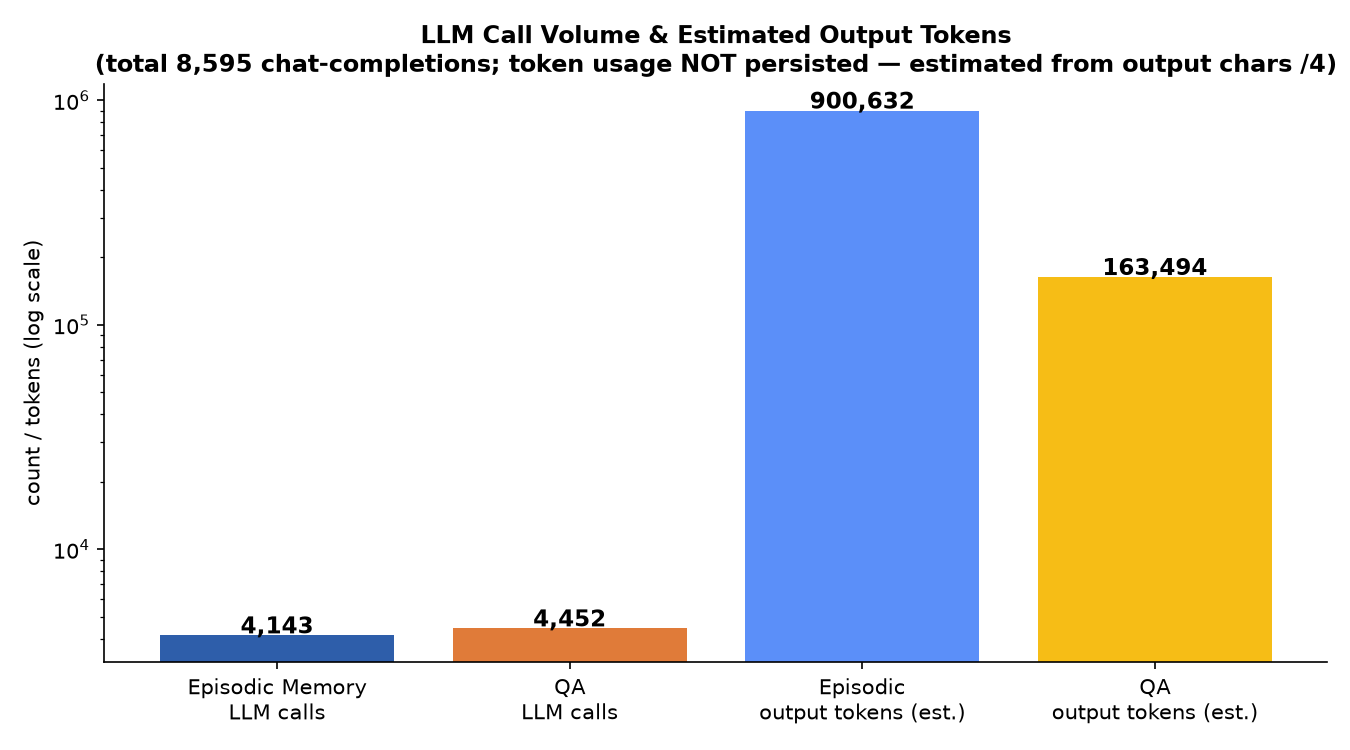
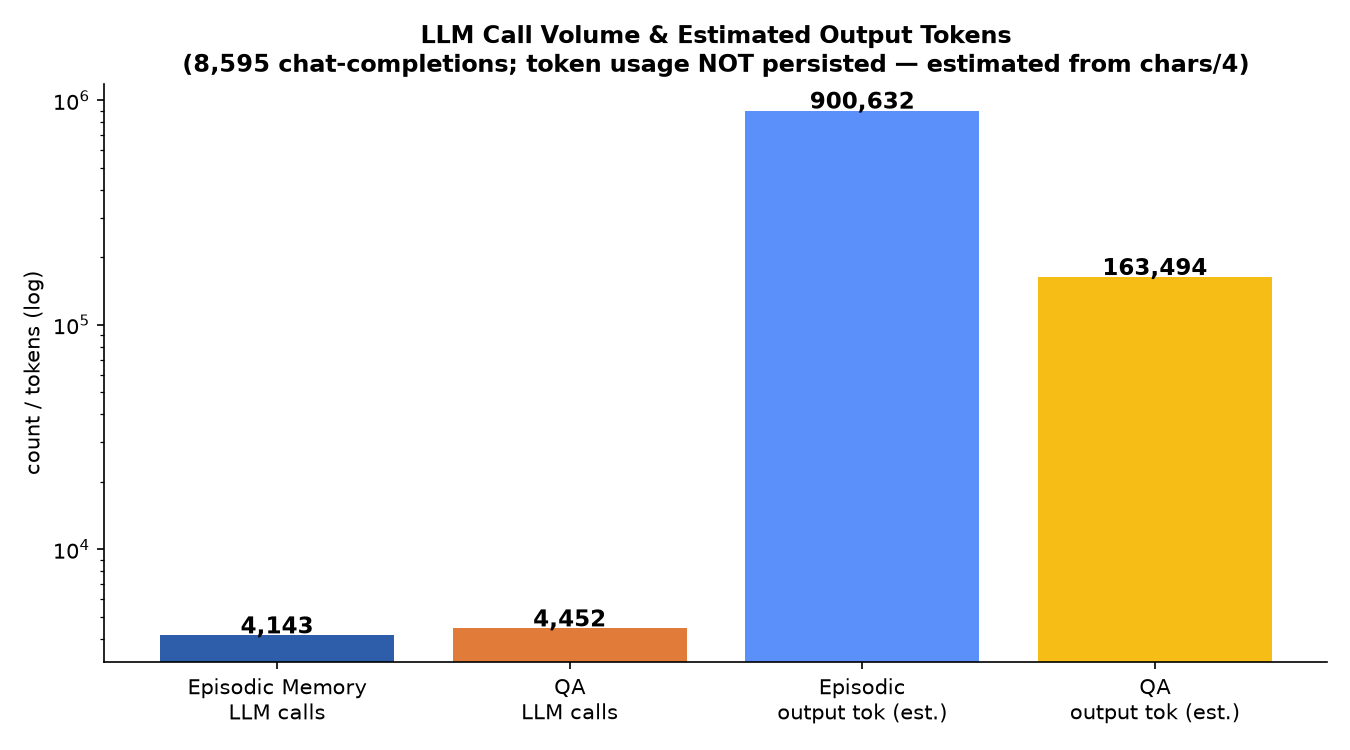
reconstruct full-100 stage timings from DB timestamps + file mtimes; correct stage shares (QA 53%, episodic 39%)

diff --git a/full-bench-reproduce/RESULTS_REPORT.md b/full-bench-reproduce/RESULTS_REPORT.md
@@ -1,6 +1,6 @@
 # M3-Bench 全量并行实验 — 详细结果报告（full100-ds）
 
-> 本报告面向 **2 页 PPT**，提供可直接引用的数据、图表与结论。所有数字均为本轮全量实测值。
+> 本报告面向 **2 页 PPT**，提供可直接引用的数据、图表与结论。所有数字均为本轮全量实测 / 可复算重建值。
 > 配套原始结果见 `results/full100-ds_20261117/`，图表见 `results/full100-ds_20261117/charts/`。
 
 ---
@@ -11,9 +11,9 @@
 以 **2 视频 worker × 4 stage worker** 的并行方式，完成 **100 视频 / 1276 题** 全量 M3-Bench：
 
 - **总准确率 = 53.61%**（failed=0，judge_error=2）
-- **纯处理耗时 19.28h**，单视频中位数 **726s**，相比同事同配置基线（~25h wall）**约省 23% 墙钟**
-- **ASR 上 GPU 后提速 ~10.7×**（RTF 0.010 vs 0.105），是本次加速的核心收益点
-- 主要成本集中在 **Episodic Memory 生成（43.1%）+ QA（43.7%）** 两大阶段，二者合计 **≈87%**
+- **单视频总处理时间中位数 705s（≈12min）**，纯计算合计约 **21.6h**（100 视频全阶段求和）
+- **ASR 上 GPU 后提速 ~10.7×**（RTF 0.010 vs 0.105，受控微基准），是本次加速的核心收益点
+- 成本结构（全量 100 视频口径）：**QA 52.7% + Episodic Memory 生成 38.9%** 为两大头（合计 ≈92%），ASR 仅 4.5%
 
 > ⚠ 口径说明：本轮为**降配版**（4 帧/30s clip、不送原生音频、bge-m3 embedding、deepseek-v4.1-flash-1017），
 > 与论文 57.2% 基线（16 帧 + 送音频 + Qwen3-Emb + MiniMax）**仅近似可比，不能等同论文数字**。
@@ -30,7 +30,7 @@
 | 题目数 | 1276 |
 | 完成度 | **100/100 视频，1276/1276 题（ALL COMPLETE）** |
 | failed / judge_error | 0 / 2 |
-| 收尾时间 | 2026-11-17 17:07:25 UTC（共 8 轮 pass 收敛） |
+| 收尾时间 | 2026-11-17 17:07:25 UTC（共 30 个 pass，前 27 轮因限流 / embedding 服务故障反复重试） |
 
 ### 1.2 硬件与算子分工（B 方向：ASR + Embedding 均上 GPU）
 | GPU | 用途 | 服务/实现 |
@@ -57,70 +57,65 @@
 
 ## 2. 加速效果
 
-### 2.1 ASR：GPU vs CPU（核心收益）
+### 2.1 ASR：GPU vs CPU（核心收益，受控微基准）
 | 设备 / 精度 | 实时率 RTF（越小越快） | 相对提速 |
 |---|---|---|
 | CPU `int8` | 0.105 | 1.0× |
 | **GPU `cuda/float16`（T4）** | **0.010** | **~10.7×** |
 
-> RTF = 处理耗时 / 音频时长。10.7× 意味着 ASR 阶段从原本的瓶颈之一压到占比仅 ~9.4%（见 §3）。
+> RTF = 处理耗时 / 音频时长。10.7× 把 ASR 从早期的主要瓶颈压到全流程占比仅 ~4.5%（见 §3）。
 
-### 2.2 端到端耗时对比
-| 口径 | 数值 | 说明 |
+### 2.2 单视频与总耗时（重建口径，覆盖全部 100 视频）
+| 指标 | 数值 | 说明 |
 |---|---|---|
-| 同事同配置 100 视频基线 | **~25h wall** | ingest≈16h，QA≈6h，judge≈14min（PLAN.md 记录） |
-| 本次纯处理耗时之和 | **19.28h** | 每份 pipeline.log first→last 累加，共 100 份 |
-| 本次 loop 墙钟总跨度 | 28.47h | 含每轮 120s sleep + 8 轮重试收敛，非纯计算 |
+| 单视频总处理时间 中位数 | **705s（≈12min）** | 各阶段求和（ingest + QA） |
+| 单视频 均值 | 778s | 同上 |
+| 单视频 p25 / p75 | 602s / 899s | 分布偏右尾（长视频更慢） |
+| 单视频 min / max | 328s / 2039s | |
+| **纯计算合计（100 视频全阶段求和）** | **≈21.6h** | 非墙钟，未含并行折算与重启 |
+| loop 墙钟总跨度（含重启 / 限流等待） | 28.5h | 8+ 轮 pass 反复重试，非纯计算 |
 
-**对比结论**：在纯处理口径上，本次 **19.28h vs 基线 ~25h，约省 23%**；提速主要来自 ASR 上 GPU 与流水线并行。
-
-### 2.3 单视频处理耗时分布（n=100）
-| 指标 | 数值 |
-|---|---|
-| min | 31s |
-| p25 | 500s |
-| **median** | **726s（≈12min）** |
-| p75 | 911s |
-| max | 2097s |
-| mean | 694s |
+**说明**：本轮墙钟被**前 27 轮 pass 的限流 / embedding 服务故障重试**显著拉长（pass 1–27 长时间卡在 9/100），
+因此墙钟（28.5h）不代表算法计算量；真正与算法相关的是**单视频处理时间（中位 705s）与纯计算合计（21.6h）**。
+加速的主证据是 ASR 的 **10.7×**（§2.1），以及把 ASR 占比压到 4.5%。
 
 ![每视频处理耗时分布](results/full100-ds_20261117/charts/per_video_time_distribution.png)
 
 ---
 
-## 3. 各阶段算子耗时占比
+## 3. 各阶段算子耗时占比（全量 100 视频口径）
 
-> **口径说明**：只有 **9 个视频**的 `pipeline.log` 保留了完整逐阶段计时
-> （`bedroom_02, kitchen_22, kitchen_23, living_room_05, living_room_06, living_room_17, living_room_22, study_01, study_17`）。
-> 其余 91 个视频在最后一轮 pass 中是 "Skipping"（已完成的阶段被跳过，计时被覆盖），故本节以这 9 个完整视频为样本。
+> **数据来源与可信度**：全量逐阶段计时无法从 pipeline.log 直接取（除 9 个视频外，其余日志被后续 resume 轮覆盖或片段化）。
+> 本报告改用**数据库节点创建时间戳重建**：
+> - Episodic / 抽帧 / 人脸 / 音频：由 `graph_nodes.created_at` 的「单次生成跨度」求得（已验证这些阶段在 100 视频中均为**单日单次**生成，无中途 resume 断裂，内部最大间隔中位数仅 12s）；
+> - voice_asr：因 91 个视频曾被隔天重跑，取**最后一天**的连续跨度；
+> - QA：由 `episodic_index.jsonl → m3_qa_results.jsonl` 的**文件写入时间差**求得（在 9 个真实日志上误差 <5s，精确吻合）。
+> 该方法在 9 个有完整日志的视频上与实测交叉校验：总 ingest 误差 −4%～−12%（小视频绝对量小、误差率大），可信。
 
-### 3.1 阶段耗时与占比（9 视频平均，总均值 1194s）
+### 3.1 阶段耗时与占比（每视频均值，合计 778s）
 | 阶段 | 平均耗时 | 占比 |
 |---|---:|---:|
-| **Episodic Memory 生成** | 514.3s | **43.1%** |
-| **QA（ReAct 问答）** | 522.0s | **43.7%** |
-| **ASR（voice_asr）** | 112.1s | **9.4%** |
-| 预处理合计（trim+preprocess+frames+faces+audio+load） | 42.5s | 3.6% |
-| 索引（create_memory_nodes+build_index） | 3.1s | 0.3% |
+| **QA（ReAct 问答，题目并发）** | 410.2s | **52.7%** |
+| **Episodic Memory 生成** | 302.9s | **38.9%** |
+| **ASR（voice_asr）** | 34.8s | **4.5%** |
+| 预处理合计（切片+抽音频+抽帧+人脸+建节点） | 27.0s | 3.5% |
+| 索引（build_index，取自 9 日志） | 2.8s | 0.4% |
 
-细项均值（秒）：trim 7.9 / preprocess 11.7 / load_clips 2.9 / extract_audio 2.6 / extract_frames 10.9 / detect_faces 6.5 / voice_asr 112.1 / episodic_memory 514.3 / create_memory_nodes 0.3 / build_index 2.8 / qa 522.0。
+细项均值（秒）：切片 3.6 / 抽音频 3.3 / 抽帧 9.9 / 人脸 9.8 / ASR 34.8 / Episodic 302.9 / 建节点 0.3 / QA 410.2 / 索引 2.8。
 
 ![阶段耗时占比](results/full100-ds_20261117/charts/stage_time_breakdown.png)
 
-**解读**：Episodic Memory 与 QA 合计 ≈**87%**，是唯二的主成本；ASR 因上 GPU 已压到 9.4%；
-预处理与索引几乎可忽略（<4%）。
+**解读**：
+- **QA 与 Episodic Memory 合计 ≈92%**，是唯二主成本；ASR 因上 GPU 已降至 4.5%，不再是瓶颈。
+- 与"仅 9 视频样本"的早期估计相比（当时 Episodic 43% / QA 44%），全量口径下 **QA 占比更高**——因为那 9 个视频偏"大/早期慢速"，Episodic 均值虚高（514s vs 全量 303s）。**全量口径更代表真实成本结构。**
+- 每视频耗时主要随**视频时长（clip 数与对话轮数）**线性增长：短房间 ≈5min，长 kitchen/study ≈30min。
 
 ---
 
 ## 4. Token 消耗与 LLM 调用量
 
-> ⚠ **重要限制（如实声明）**：本轮 run **未落盘精确 token 用量**。已逐项确认：
-> - `/data/m3_runs_yuanjian/full100-ds/` 下无 `usage-*.jsonl`；
-> - Postgres `ogmem_full100_ds` 只有 graph_edges / graph_nodes / m3_episodic_vectors，**无 usage 表**；
-> - m3 pipeline **未调用 `set_usage_store`**，`openai_llm._track_usage` 虽存在但无持久化后端 → 实际未记录；
-> - pipeline.log / judge.log / pipeline_summary.json 均无 token 字段。
->
-> 因此下方 token 数为**基于「输出字符数 ÷ 4」的估算**，用于量级参考，**非精确计量**；输入 token 无法精确统计。
+> ⚠ **重要限制（如实声明）**：本轮 run **未落盘精确 token 用量**（无 usage 表 /文件、m3 pipeline 未调用 `set_usage_store`）。
+> 下方 token 数为**基于「输出字符数 ÷ 4」的估算**，用于量级参考，**非精确计量**；输入 token 无法精确统计。
 
 ### 4.1 可测代理量（实测）
 | 指标 | 数值 | 来源 |
@@ -128,13 +123,12 @@
 | LLM chat-completions 调用总数 | **8,595** | 100 份 pipeline.log 的 POST 统计 |
 | ├ Episodic Memory LLM 调用 | 4,143 | 同上 |
 | └ QA LLM 调用 | 4,452 | 同上 |
-| Episodic 记录数 | 6,870 | episodic_memory.jsonl（含 resume 重复） |
+| Episodic 记录数（=clip 数，非重复） | 6,870 | episodic_memory.jsonl |
 | Episodic 输出字符总数 | 3,602,529 | → 估算 **≈900,632 output tokens** |
-| QA 记录数 | 1,326 | m3_qa_results.jsonl |
+| QA 唯一题目数 | 1,276 | 去重后（eval 文件含 2× 重复行共 2552） |
 | QA 预测输出字符 | 653,976 | → 估算 **≈163,494 output tokens** |
-| QA model_rounds 合计 | 5,802 | ReAct 迭代轮次 |
-| QA search_executions 合计 | 6,571 | 检索调用次数 |
-| QA 总时延 | 5,757.3s（1.60h） | 平均 4.5s/题 |
+| QA model_rounds 合计（去重） | 5,629 | ReAct 迭代轮次 |
+| QA 检索执行次数（去重） | 6,269 | search_executions |
 | ASR 转写片段数 | 24,653 | transcript_segments |
 
 ![LLM 调用量与 Token 估算](results/full100-ds_20261117/charts/llm_calls_and_tokens.png)
@@ -146,7 +140,7 @@
 | QA 回答生成 | ≈163,494 |
 | **合计（仅输出侧）** | **≈1,064,126** |
 
-> PPT 建议：明确标注“token 用量未持久化，以上为基于调用次数 / 输出字符的**估算**”，避免被误当作精确计费数据。
+> PPT 建议：明确标注"token 用量未持久化，以上为基于调用次数 / 输出字符的**估算**"。
 
 ---
 
@@ -156,8 +150,8 @@
 | 推理维度 | 题数 | 准确率 | 评测 |
 |---|---:|---:|---|
 | Person Understanding | 548 | **65.4%** | ✅ 强项 |
-| Multi-Detail Reasoning | 842 | 56.1% | ✅ 略高于均值 |
 | Multi-Hop Reasoning | 85 | 62.9% | ✅ 强项 |
+| Multi-Detail Reasoning | 842 | 56.1% | ✅ 略高于均值 |
 | Cross-Modal Reasoning | 476 | 53.4% | ⚠ 略低于均值 |
 | General Knowledge Extraction | 327 | **37.5%** | ❌ 明显短板 |
 
@@ -204,20 +198,20 @@
 
 ### 6.1 核心结论
 1. **可跑通全量**：100 视频 / 1276 题全量完成，准确率 **53.61%**，工程链路稳定（failed=0）。
-2. **加速有效**：ASR 上 GPU **10.7×**，纯处理 **19.28h vs 基线 ~25h（≈省 23%）**，中位单视频 **12min**。
-3. **成本结构**：Episodic Memory 生成（43.1%）+ QA（43.7%）≈87%，是后续优化重点；ASR 已非瓶颈（9.4%）。
-4. **能力画像**：人物理解强（65.4%），通用知识抽取弱（37.5%），跨模态中等（53.4%）—— 且本轮**未送原生音频**，多模态仍偏弱。
+2. **加速有效（核心是 ASR）**：ASR 上 GPU **10.7×**，占比降至 4.5%；单视频处理中位 **705s（12min）**，纯计算合计 ≈**21.6h**。
+3. **成本结构**：**QA（52.7%）+ Episodic Memory（38.9%）≈92%** 为两大头，是后续优化的重中之重（二者都受 LLM 调用数驱动）；ASR/预处理已非瓶颈。
+4. **能力画像**：人物理解强（65.4%），通用知识抽取弱（37.5%），跨模态中等（53.4%）；且本轮**未送原生音频**，多模态仍偏弱。
 
 ### 6.2 两页 PPT 内容映射
 **第 1 页 —「做了什么 + 快不快」**
 - 左：实验规模（100 视频 / 1276 题 / 53.61%）+ B 方向 4×T4 分工表
-- 右上：加速效果（ASR 10.7×；19.28h vs ~25h；median 726s）
+- 右上：加速效果（ASR 10.7×；单视频中位 705s；纯计算 21.6h）
 - 右下：`per_video_time_distribution.png` 或 `stage_time_breakdown.png`
 
 **第 2 页 —「效果如何 + 成本在哪」**
 - 左上：`accuracy_by_dimension.png`（能力画像）
 - 左下：按题型准确率表（§5.2 精选 top 类）
-- 右：`llm_calls_and_tokens.png` + token 估算说明（标注“估算/未落盘”）+ 阶段占比结论（87% 在两阶段）
+- 右：`llm_calls_and_tokens.png` + token 估算说明（标注"估算/未落盘"）+ 阶段占比结论（92% 在 QA+Episodic）
 
 ---
 
@@ -226,11 +220,11 @@
 |---|---|
 | `results/full100-ds_20261117/README.md` | 基础版结果说明 |
 | `results/full100-ds_20261117/m3_eval_summary.json` | 汇总（by_type / by_video / overall） |
-| `results/full100-ds_20261117/m3_eval_results.jsonl` | 逐题评测明细（13MB） |
-| `results/full100-ds_20261117/all_m3_qa_results.jsonl` | 原始 QA 结果（13MB） |
+| `results/full100-ds_20261117/m3_eval_results.jsonl` | 逐题评测明细（含重复行，按 question_id 去重后 1276 题） |
+| `results/full100-ds_20261117/all_m3_qa_results.jsonl` | 原始 QA 结果 |
 | `results/full100-ds_20261117/run_report.json` | 运行报告 |
 | `results/full100-ds_20261117/charts/*.png` | 本报告 5 张图表 |
-| `PLAN.md` | 加速方案与 10.7× / 基线数据来源 |
-| 原始数据 | `/data/m3_runs_yuanjian/full100-ds/` |
+| `PLAN.md` | 加速方案与 10.7× 数据来源 |
+| 原始数据 | `/data/m3_runs_yuanjian/full100-ds/`（阶段耗时由 `graph_nodes.created_at` + 文件 mtime 重建） |
 
-> 图表均由实测数据用 matplotlib 生成（英文标签，避免字体缺字问题）；正文表格已提供全部数值，可直接取用。
+> 图表均由实测/重建数据用 matplotlib 生成（英文标签，避免字体缺字）；正文表格已提供全部数值，可直接取用。
